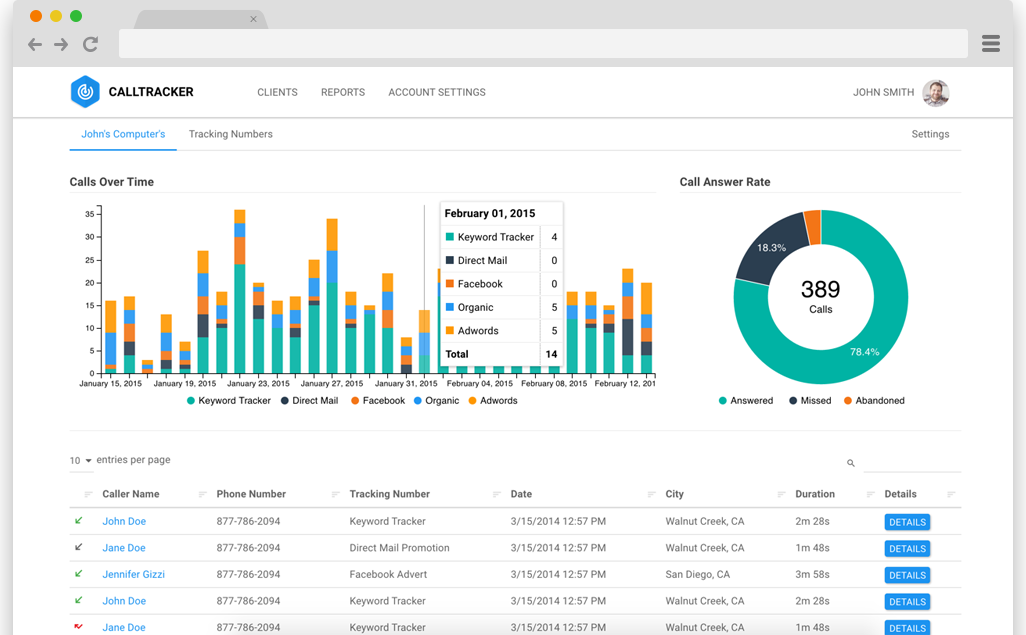
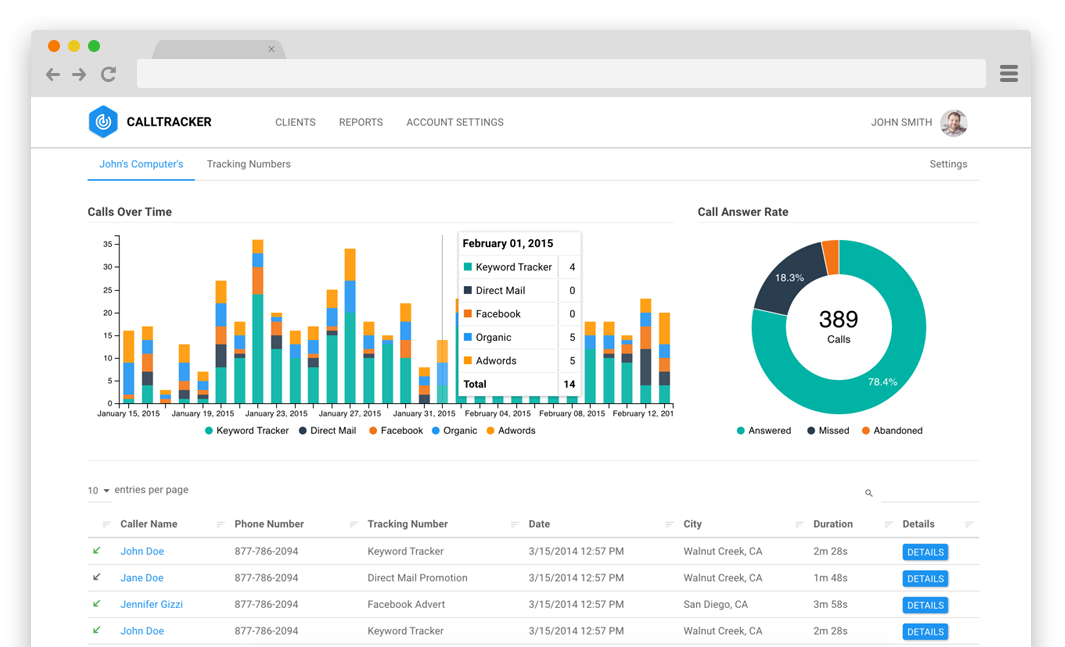
update the mockup on the homepage

diff --git a/index.html b/index.html
@@ -14,29 +14,29 @@ title:  'Call Tracking, Phone Call Analytics by Call Tracker '
 	      </a>
   		</div>
   		<div class="col-md-9 col-sm-12 text-right p-t-20">
-  			<p class="lead">Get insights for what makes your phone ring <a href="sign-up.html" class="btn btn-primary btn-sm">Sign Up For Free</a></p>
+  			<p class="lead">Get insights for what makes your phone ring <a href="sign-up.html" class="btn btn-primary btn-sm">Get Started For Free</a></p>
   		</div>
   	</div>
   </div>
 </nav>
 </div>
 <div class="content">
-<section class="bg-light-grey">
+<section class="segment-hero">
 	<div class="container">
 		<div class="row p-b-30">
 			<div class="col-md-12 text-center">
 					<h2>Insights for What Makes Your Phone Ring</h2>
-					<p class="lead text-primary bold">Finally, you can have ROI data for your marketing campaigns that turn into phone calls at an affordable price.</p>
+					<p class="lead bold">Finally, you can have ROI data for your marketing campaigns that turn into phone calls at an affordable price.</p>
 			</div>
 		</div>
 		<div class="row">
 			<div class="col-md-6 col-md-offset-3 text-center">
-				<a href="sign-up.html" class="btn btn-xl btn-primary">Create your Free Account</a>
+				<a href="sign-up.html" class="btn btn-xl btn-primary">Get Started For Free</a>
 			</div>
 		</div>
 		<div class="row">
 			<div class="col-md-12 text-center hero-img-mockup">
-				<a href="sign-up.html"><img src="images/calltrackermockup_03.png" class="m-t-40"></a>
+				<a href="sign-up.html"><img src="images/calltrackermockup.png" class="m-t-40"></a>
 			</div>
 		</div>
 	</div>

diff --git a/_includes/header.html b/_includes/header.html
@@ -17,7 +17,7 @@
         <li><a href="contact.html">Contact</a></li>
         <li></li>
       </ul>
-       <a href="sign-up.html" class="btn btn-primary btn-sm pull-right m-t-15">Sign Up for Free</a>
+       <a href="sign-up.html" class="btn btn-primary btn-sm pull-right m-t-15">Get Started For Free</a>
   </div>
 
     </div><!--/.nav-collapse -->

diff --git a/css/style.scss b/css/style.scss
@@ -261,9 +261,13 @@ table.dataTable.no-footer {
 }
 
 .segment-hero {
-  background: url(../images/macpro-dashboard.jpg) no-repeat;
+  background: #1f2c39;
   min-height: 600px;
   background-size: cover;
+  color: #ffffff !important;
+}
+.segment-hero h2 {
+  color: #fff;
 }
 
 .segment-primary {
